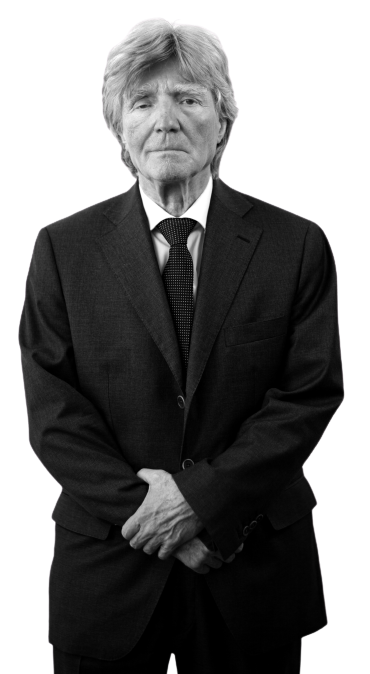
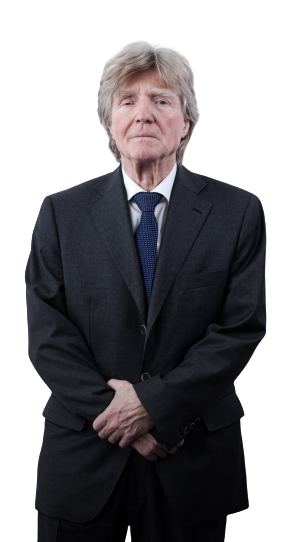
yikes

diff --git a/public/app.js b/public/app.js
@@ -27,6 +27,7 @@ const map = document.querySelector(".map");
 const mapInfo = document.querySelector(".mapInfo")
 const contactInfo = document.querySelector(".contactInfo")
 const changeLanguage = document.querySelector(".changeLanguage")
+const grayOverlay = document.querySelector(".grayOverlay")
 
 // NAV MENU TOGGLE FUNCTION
 // EXTENDS/RETRACTS THE NAV SIDE MENU AND FOOTER WHEN CALLED
@@ -38,6 +39,10 @@ const navToggle = () => {
         navButton.classList.remove("navButtonRotateOut")
         menu.classList.toggle("menuExtended");
         navButton.classList.add("navButtonRotateIn");
+        grayOverlay.classList.remove("noDisplay");
+        setTimeout(()=>{
+            grayOverlay.classList.add("overlayOpacity");
+        },20)
         setTimeout(() => {
             navExtended = true;
         }, 250)
@@ -46,6 +51,11 @@ const navToggle = () => {
         menu.classList.toggle("menuExtended");
         navButton.classList.add("navButtonRotateOut");
         navExtended = false;
+        grayOverlay.classList.remove("overlayOpacity");
+        setTimeout(()=>{
+            grayOverlay.classList.add("noDisplay");
+        },150)
+
     }
 }
 // SCRIPT TO HIDE THE TOP LEFT LANGUAGE BUTTONS ON PHONE UNLESS ON THE LANDING PAGE
@@ -70,14 +80,14 @@ navButton.addEventListener("click", () => {
     }, 250) //SPAM PROTECTION LASTS FOR 250MS
 })
 // TOGGLE SIDE BAR BY HOVERING OFF IT
-main.addEventListener("mouseenter", (event) => {
-    if (event.target == main && navExtended == true) { //TOGGLES WHEN YOU HOVER FROM MENU -> MAIN
+grayOverlay.addEventListener("mouseenter", (event) => {
+    if (event.target =grayOverlay && navExtended == true) { //TOGGLES WHEN YOU HOVER FROM MENU -> MAIN
         navToggle();
         footerShow();
     }
 })
-header.addEventListener("mouseenter", (event) => {
-    if (event.target == header && navExtended == true) { //TOGGLES WHEN YOU HOVER FROM MENU -> HEADER
+grayOverlay.addEventListener("mouseenter", (event) => {
+    if (event.target == grayOverlay && navExtended == true) { //TOGGLES WHEN YOU HOVER FROM MENU -> HEADER
         navToggle();
         footerShow();
     }

diff --git a/public/app.css b/public/app.css
@@ -19,6 +19,7 @@ article, aside, details, figcaption, figure, footer, header, hgroup, menu, nav, 
 
 body {
     line-height: 1;
+    color: var(--menuColor);
 }
 
 ol, ul {
@@ -339,6 +340,20 @@ main {
     display: flex;
     justify-content: center;
 }
+.grayOverlay{
+    height: 100%;
+    width: 100%;
+    position: absolute;
+    background: white;
+    top: 0;
+    left: 0;
+    opacity: 0;
+    transition: 150ms;
+    z-index: 6;
+}
+.overlayOpacity{
+    opacity: 0.4;
+}
 
 /* LANDING PAGE */
 
@@ -401,7 +416,7 @@ main {
     width: 100%;
     font: var(--containerH2Font);
     padding-bottom: var(--h2Padding);
-    color: rgb(87, 87, 87);
+    color: var(--menuColor);
     letter-spacing: 1px;
 }
 
@@ -434,9 +449,9 @@ main {
     /* SETS THE HEIGHT OF THE NAME CONTAINER EXTENDED */
     --lawyerNameExtended: 230px;
     /* SETS THE FONT OF THE HEADERS(3) IN THE INDIVIDUAL CONTAINERS */
-    --lawyerContainerH3Font: normal normal 300 32px/46px 'HelveticaKVAFont', "arial", sans-serif;
+    --lawyerContainerH3Font: normal normal 300 27px/46px 'HelveticaKVAFont', "arial", sans-serif;
     /* SETS THE FONT OF THE HEADERS(4) IN THE INDIVIDUAL CONTAINERS */
-    --lawyerContainerH4Font: normal normal 300 25px/30px 'HelveticaKVAFont', "arial", sans-serif;
+    --lawyerContainerH4Font: normal normal 300 23px/30px 'HelveticaKVAFont', "arial", sans-serif;
     /* SETS THE FONT OF THE LAWYER NAME LIST */
     --lawyerNameFont: normal normal 200 18px/18px 'HelveticaKVAFont', "arial", sans-serif;
     /* SETS THE FONT OF THE LAWYER INFO LIST */
@@ -485,7 +500,9 @@ main {
     top: 0;
     filter: grayscale(100%);
 }
-
+.lawyerPicture:hover {
+    filter: none;
+}
 .lawyerName {
     height: var(--lawyerContainerBase);
     width: auto;
